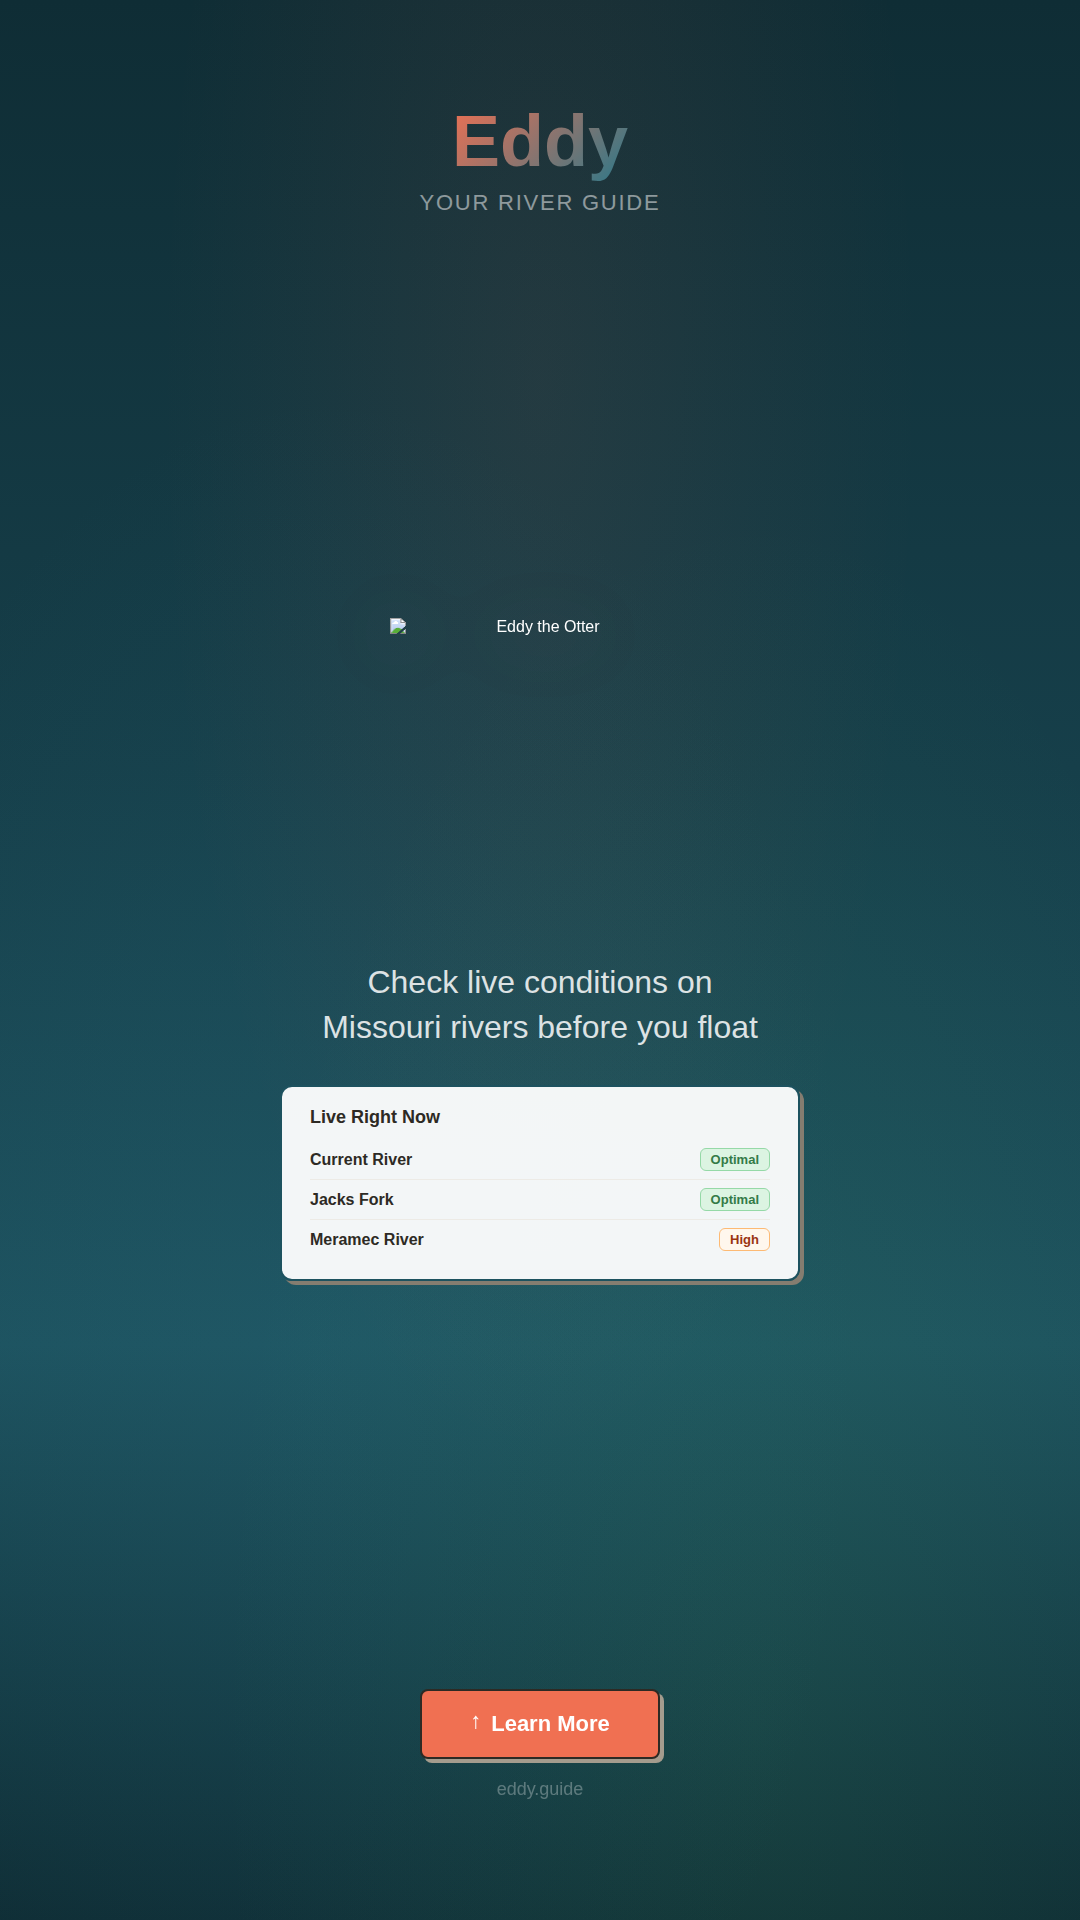
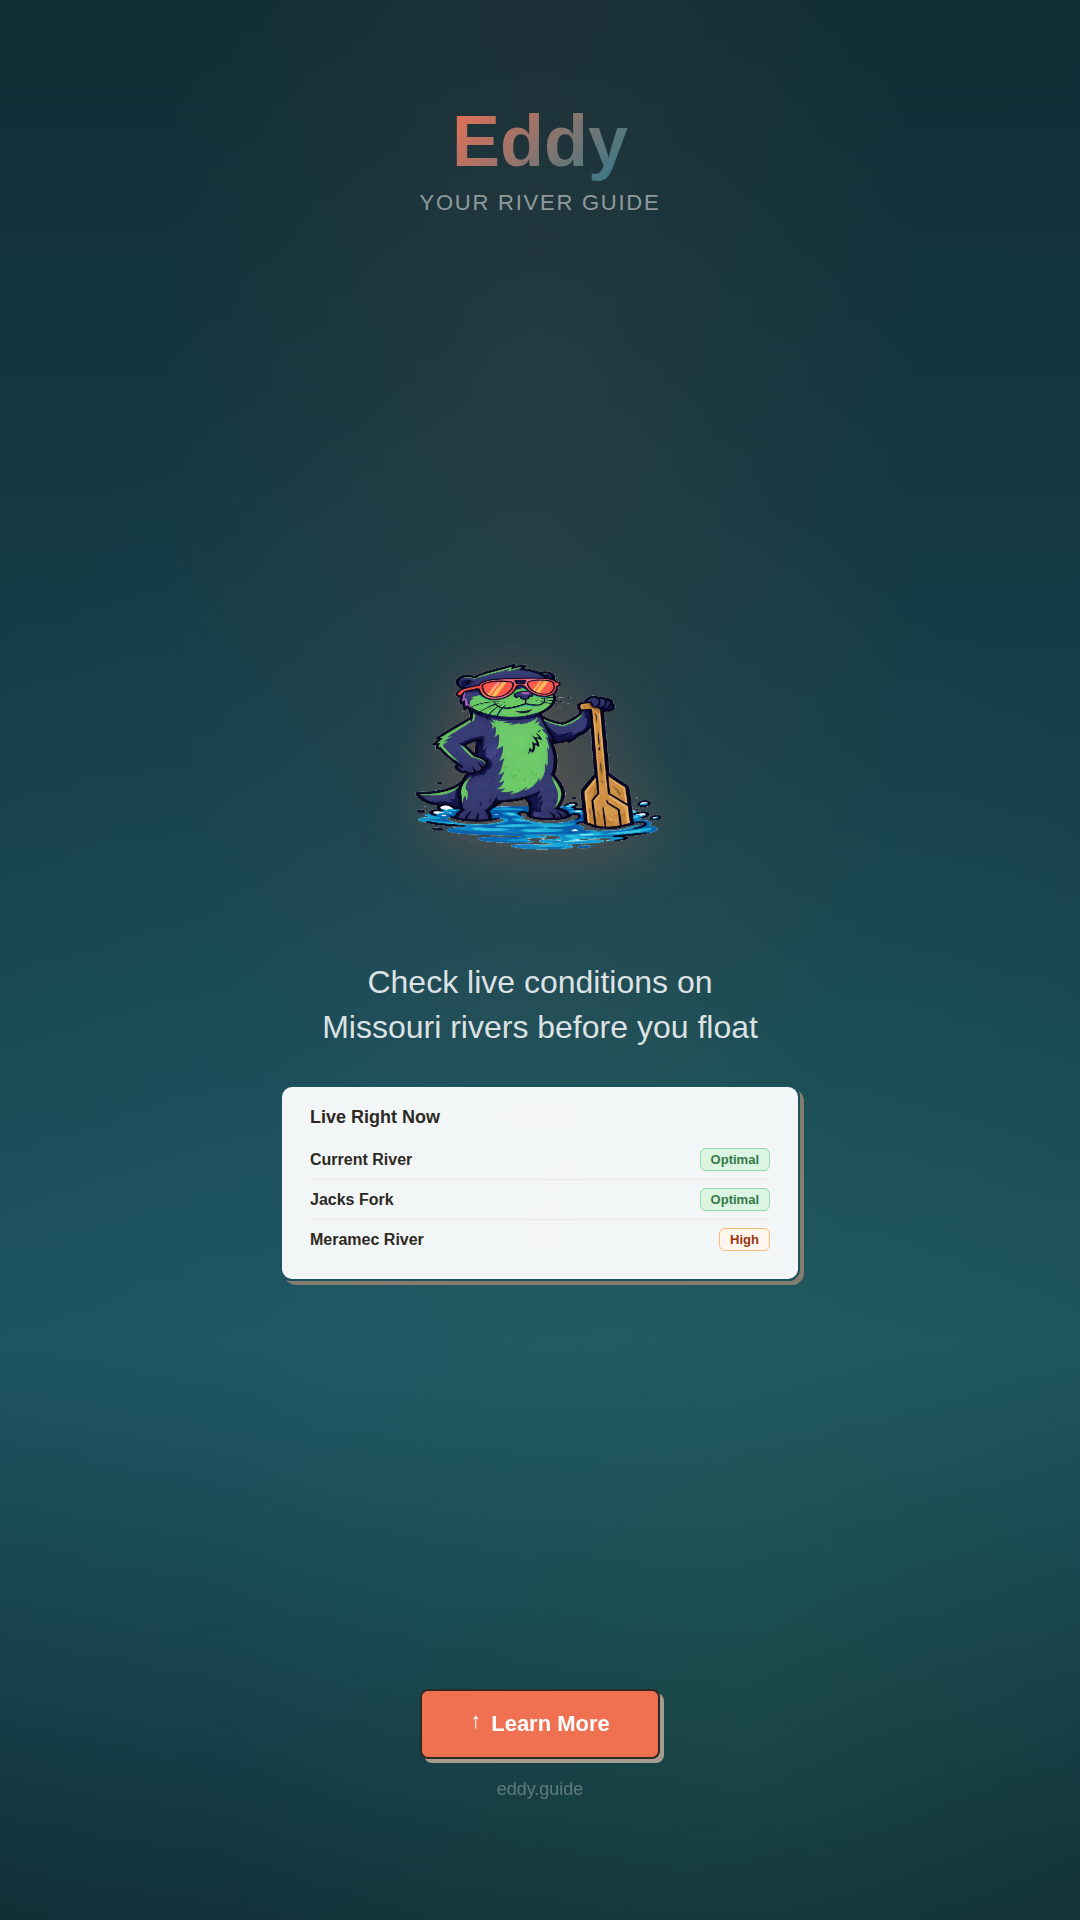
Use local Eddy mascot image for ad creative exports
Switched from external Vercel blob URLs to local eddy-reference.png
so the Playwright export script can render the mascot in PNGs.

https://claude.ai/code/session_01STVnPtLsdwNpKZUpYe5hco

Changed region(s): [[0.3667, 0.3125, 0.6111, 0.4688]]

diff --git a/missouri-float-planner/.stitch/designs/14-ad-lifestyle-fb-feed.html b/missouri-float-planner/.stitch/designs/14-ad-lifestyle-fb-feed.html
@@ -241,13 +241,13 @@
     </div>
     <div class="right">
       <img
-        src="https://q5skne5bn5nbyxfw.public.blob.vercel-storage.com/Eddy_Otter/Eddy%20in%20a%20canoe.png"
+        src="../../public/blog/planning-first-trip/eddy-reference.png"
         alt="Eddy in a canoe"
         class="mascot"
       >
       <div class="trip-card">
         <div class="trip-header">
-          <img src="https://q5skne5bn5nbyxfw.public.blob.vercel-storage.com/Eddy_Otter/Eddy_favicon.png" alt="Eddy" class="trip-icon">
+          <img src="../../public/blog/planning-first-trip/eddy-reference.png" alt="Eddy" class="trip-icon">
           <span class="trip-title">Current River</span>
         </div>
         <div class="trip-stats">
@@ -275,7 +275,7 @@
       </div>
     </div>
     <div class="brand-tag">
-      <img src="https://q5skne5bn5nbyxfw.public.blob.vercel-storage.com/Eddy_Otter/Eddy_favicon.png" alt="">
+      <img src="../../public/blog/planning-first-trip/eddy-reference.png" alt="">
       Your River Guide
     </div>
     <span class="domain">eddy.guide</span>

diff --git a/missouri-float-planner/.stitch/designs/12-ad-conditions-ig-feed.html b/missouri-float-planner/.stitch/designs/12-ad-conditions-ig-feed.html
@@ -193,7 +193,7 @@
 <body>
   <div class="canvas">
     <img
-      src="https://q5skne5bn5nbyxfw.public.blob.vercel-storage.com/Eddy_Otter/Eddy_the_Otter.png"
+      src="../../public/blog/planning-first-trip/eddy-reference.png"
       alt="Eddy the Otter"
       class="mascot"
     >
@@ -202,7 +202,7 @@
 
     <div class="condition-card">
       <div class="card-header">
-        <img src="https://q5skne5bn5nbyxfw.public.blob.vercel-storage.com/Eddy_Otter/Eddy_favicon.png" alt="Eddy" class="card-header-icon">
+        <img src="../../public/blog/planning-first-trip/eddy-reference.png" alt="Eddy" class="card-header-icon">
         <span class="card-title">Live Conditions</span>
       </div>
       <div class="river-row">

diff --git a/missouri-float-planner/.stitch/designs/16-ad-lifestyle-ig-story.html b/missouri-float-planner/.stitch/designs/16-ad-lifestyle-ig-story.html
@@ -192,7 +192,7 @@
 
     <div class="middle">
       <img
-        src="https://q5skne5bn5nbyxfw.public.blob.vercel-storage.com/Eddy_Otter/Eddy%20in%20a%20canoe.png"
+        src="../../public/blog/planning-first-trip/eddy-reference.png"
         alt="Eddy in a canoe"
         class="mascot"
       >
@@ -207,7 +207,7 @@
     <div class="bottom">
       <button class="cta-btn">Plan Your Float &rarr;</button>
       <div class="domain">
-        <img src="https://q5skne5bn5nbyxfw.public.blob.vercel-storage.com/Eddy_Otter/Eddy_favicon.png" alt="Eddy">
+        <img src="../../public/blog/planning-first-trip/eddy-reference.png" alt="Eddy">
         eddy.guide
       </div>
     </div>

diff --git a/missouri-float-planner/.stitch/designs/15-ad-lifestyle-ig-feed.html b/missouri-float-planner/.stitch/designs/15-ad-lifestyle-ig-feed.html
@@ -157,7 +157,7 @@
 <body>
   <div class="canvas">
     <img
-      src="https://q5skne5bn5nbyxfw.public.blob.vercel-storage.com/Eddy_Otter/Eddy_the_Otter.png"
+      src="../../public/blog/planning-first-trip/eddy-reference.png"
       alt="Eddy the Otter"
       class="mascot"
     >
@@ -185,7 +185,7 @@
     <button class="cta-btn">Visit eddy.guide &rarr;</button>
 
     <div class="river-guide">
-      <img src="https://q5skne5bn5nbyxfw.public.blob.vercel-storage.com/Eddy_Otter/Eddy_favicon.png" alt="Eddy">
+      <img src="../../public/blog/planning-first-trip/eddy-reference.png" alt="Eddy">
       eddy.guide &mdash; Your River Guide
     </div>
   </div>

diff --git a/missouri-float-planner/.stitch/designs/11-ad-conditions-fb-feed.html b/missouri-float-planner/.stitch/designs/11-ad-conditions-fb-feed.html
@@ -192,7 +192,7 @@
     </div>
     <div class="right">
       <img
-        src="https://q5skne5bn5nbyxfw.public.blob.vercel-storage.com/Eddy_Otter/Eddy_the_Otter.png"
+        src="../../public/blog/planning-first-trip/eddy-reference.png"
         alt="Eddy the Otter"
         class="mascot"
       >

diff --git a/missouri-float-planner/.stitch/designs/13-ad-conditions-ig-story.html b/missouri-float-planner/.stitch/designs/13-ad-conditions-ig-story.html
@@ -192,7 +192,7 @@
 
     <div class="middle">
       <img
-        src="https://q5skne5bn5nbyxfw.public.blob.vercel-storage.com/Eddy_Otter/Eddy_the_Otter.png"
+        src="../../public/blog/planning-first-trip/eddy-reference.png"
         alt="Eddy the Otter"
         class="mascot"
       >
